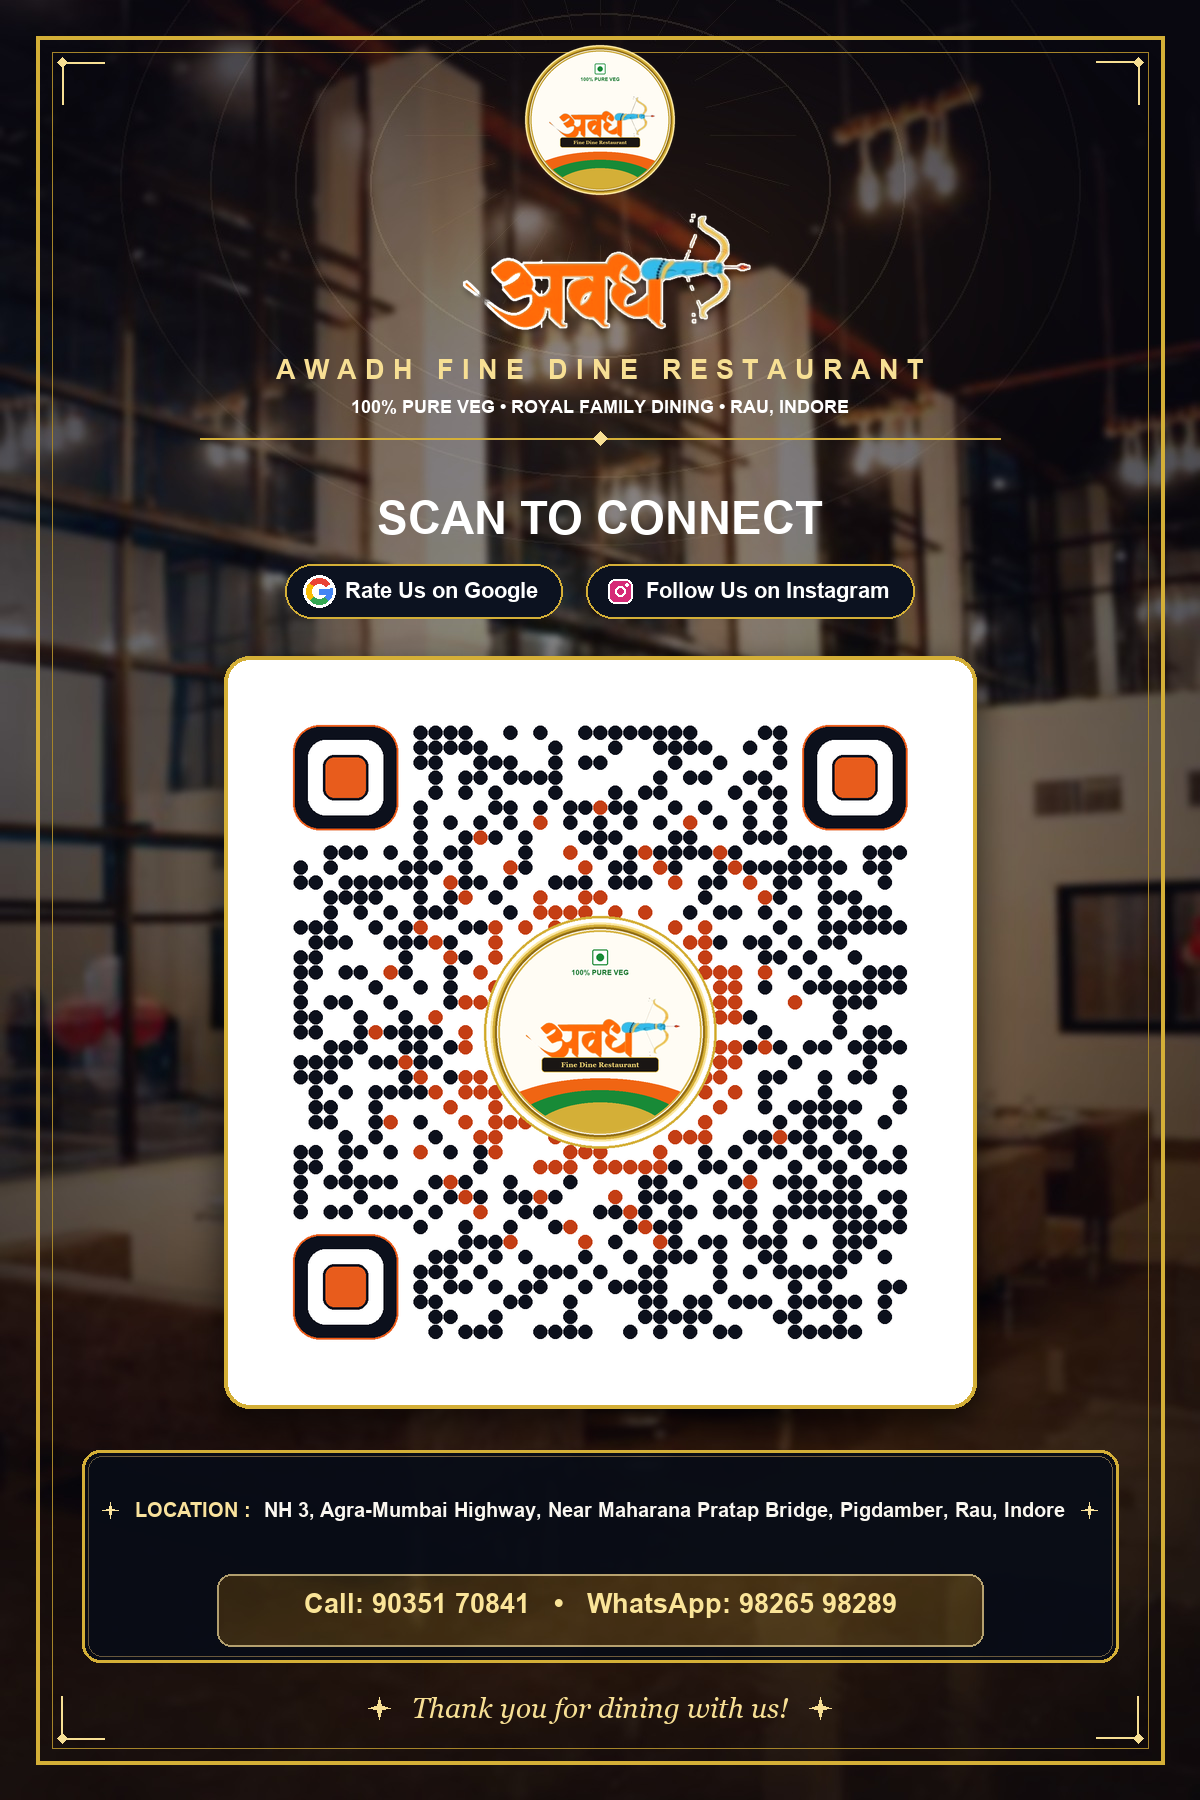
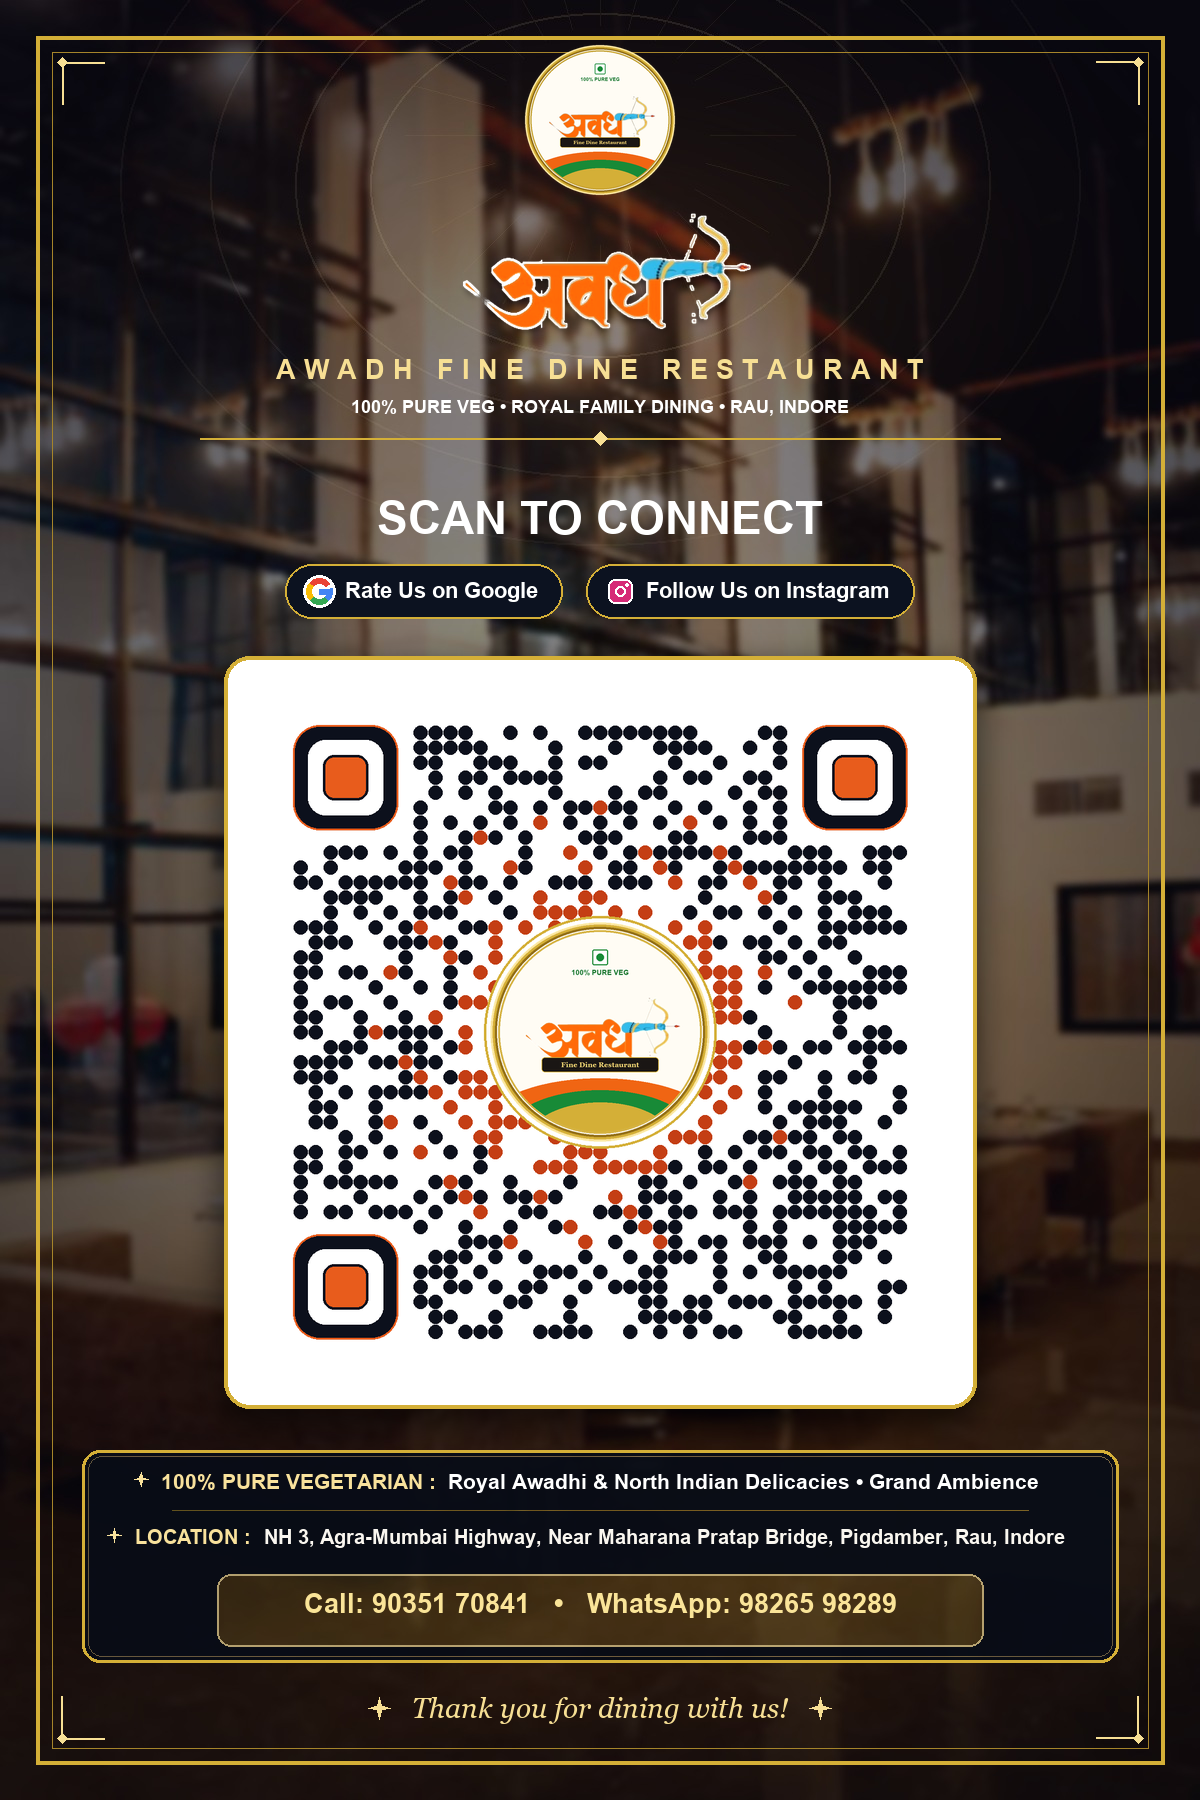
Keep single 100% Pure Vegetarian mention in footer

Changed region(s): [[0.1233, 0.8089, 0.8942, 0.8711]]

diff --git a/standee.html b/standee.html
@@ -456,6 +456,8 @@
         <!-- Footer -->
         <div class="standee-footer">
             <div class="standee-info-box">
+                <div class="standee-addr"><strong>✦ 100% PURE VEG:</strong> <span id="stHighlight">Royal Awadhi & North Indian Delicacies • Grand Ambience</span></div>
+                <div class="standee-addr-divider"></div>
                 <div class="standee-addr"><strong>✦ LOCATION:</strong> <span id="stAddress">NH 3, Agra-Mumbai Highway, Near Maharana Pratap Bridge, Pigdamber, Rau, Indore</span></div>
                 <div class="standee-phone" id="stPhone">Call: 90351 70841 &nbsp;•&nbsp; WhatsApp: 98265 98289</div>
             </div>
@@ -473,7 +475,10 @@
             if (!cfg) return;
             if (cfg.subname) document.getElementById('stSubname').textContent = cfg.subname;
             if (cfg.tagline) document.getElementById('stTagline').textContent = cfg.tagline;
-            if (cfg.highlight) document.getElementById('stHighlight').textContent = cfg.highlight;
+            if (cfg.highlight) {
+                const cleanHl = cfg.highlight.replace(/^\s*100%\s*pure\s*veg(etarian)?\s*[\:\•\-\–\—\.]*\s*/i, '');
+                document.getElementById('stHighlight').textContent = cleanHl;
+            }
             if (cfg.addressPrimary) document.getElementById('stAddress').textContent = cfg.addressPrimary;
             if (cfg.phone || cfg.whatsapp) {
                 const phoneStr = cfg.phoneDisplay || cfg.phone || "90351 70841";

diff --git a/index.html b/index.html
@@ -808,7 +808,11 @@
         <div class="info-box">
             <div class="outlets-list">
                 <div class="outlet-item">
-                    <span class="outlet-badge">✦ LOCATION • RAU, AB ROAD, INDORE ✦</span>
+                    <span class="outlet-badge">✦ 100% PURE VEG • FINE DINE RESTAURANT ✦</span>
+                    <div class="address-line" id="uiHighlight">Royal Awadhi & North Indian Delicacies • Grand Ambience</div>
+                </div>
+                <div class="outlet-item">
+                    <span class="outlet-badge">✦ RAU, AB ROAD • INDORE ✦</span>
                     <div class="address-line" id="uiAddressPrimary">NH 3, Agra-Mumbai Highway, Near Maharana Pratap Bridge, Pigdamber, Rau, Indore</div>
                 </div>
             </div>
@@ -873,7 +877,8 @@
             }
             if (cfg.highlight) {
                 const hlEl = document.getElementById('uiHighlight');
-                if (hlEl) hlEl.textContent = cfg.highlight;
+                const cleanHl = cfg.highlight.replace(/^\s*100%\s*pure\s*veg(etarian)?\s*[\:\•\-\–\—\.]*\s*/i, '');
+                if (hlEl) hlEl.textContent = cleanHl;
             }
             if (cfg.addressPrimary) {
                 const addr1 = document.getElementById('uiAddressPrimary');

diff --git a/generate_qr.py b/generate_qr.py
@@ -724,6 +724,9 @@ def draw_footer(canvas, draw, config, w=1200):
         outline=(247, 223, 148, 90),
         width=1
     )
+    div_y = info_y1 + 60
+    gdraw.line([info_x1 + 90, div_y, info_x2 - 90, div_y], fill=(212, 175, 55, 115), width=1)
+
     gdraw.rounded_rectangle(
         [info_x1 + 135, info_y1 + 124, info_x2 - 135, info_y2 - 16],
         radius=14,
@@ -735,9 +738,32 @@ def draw_footer(canvas, draw, config, w=1200):
     canvas_rgba = Image.alpha_composite(canvas_rgba, glass)
     canvas.paste(canvas_rgba.convert("RGB"))
 
+    lbl1 = "100% PURE VEGETARIAN :  "
+    txt1 = config.get("highlight", "Royal Awadhi & North Indian Delicacies • Grand Ambience")
+    txt1 = re.sub(r"^\s*100%\s*pure\s*veg(etarian)?\s*[\:\•\-\–\—\.]*\s*", "", txt1, flags=re.IGNORECASE)
+    f_size1 = 21
+    font_label1 = get_font(f_size1, bold=True)
+    font_addr1 = get_font(f_size1, bold=True)
+    b_lbl1 = draw.textbbox((0, 0), lbl1, font=font_label1)
+    b_txt1 = draw.textbbox((0, 0), txt1, font=font_addr1)
+    while ((b_lbl1[2] - b_lbl1[0]) + (b_txt1[2] - b_txt1[0])) > (w - 230) and f_size1 > 14:
+        f_size1 -= 1
+        font_label1 = get_font(f_size1, bold=True)
+        font_addr1 = get_font(f_size1, bold=True)
+        b_lbl1 = draw.textbbox((0, 0), lbl1, font=font_label1)
+        b_txt1 = draw.textbbox((0, 0), txt1, font=font_addr1)
+    w1_lbl = b_lbl1[2] - b_lbl1[0]
+    w1_txt = b_txt1[2] - b_txt1[0]
+    total_w1 = w1_lbl + w1_txt
+    x1_start = (w - total_w1) / 2
+    y1_row = info_y1 + 19 + (21 - f_size1) // 2
+    draw_sparkle(draw, x1_start - 20, y1_row + 10, radius=7, color=(249, 226, 156))
+    draw.text((x1_start, y1_row), lbl1, fill=(249, 226, 156), font=font_label1)
+    draw.text((x1_start + w1_lbl, y1_row), txt1, fill=(255, 255, 255), font=font_addr1)
+
     lbl2 = f"{config.get('addressPrimaryLabel', 'LOCATION')} :  "
     txt2 = config.get("addressPrimary", "NH 3, Near Maharana Pratap Bridge, Pigdamber, Rau, Indore")
-    f_size2 = 23
+    f_size2 = 21
     font_label2 = get_font(f_size2, bold=True)
     font_addr2 = get_font(f_size2, bold=True)
     b_lbl2 = draw.textbbox((0, 0), lbl2, font=font_label2)
@@ -752,11 +778,10 @@ def draw_footer(canvas, draw, config, w=1200):
     w2_txt = b_txt2[2] - b_txt2[0]
     total_w2 = w2_lbl + w2_txt
     x2_start = (w - total_w2) / 2
-    y2_row = info_y1 + 48
-    draw_sparkle(draw, x2_start - 24, y2_row + 12, radius=8, color=(249, 226, 156))
+    y2_row = info_y1 + 75 + (21 - f_size2) // 2
+    draw_sparkle(draw, x2_start - 20, y2_row + 10, radius=7, color=(249, 226, 156))
     draw.text((x2_start, y2_row), lbl2, fill=(249, 226, 156), font=font_label2)
     draw.text((x2_start + w2_lbl, y2_row), txt2, fill=(250, 247, 240), font=font_addr2)
-    draw_sparkle(draw, x2_start + total_w2 + 24, y2_row + 12, radius=8, color=(249, 226, 156))
 
     phone_disp = config.get("phoneDisplay") or config.get("phone", "90351 70841")
     wa_disp = config.get("whatsappDisplay") or config.get("whatsapp", "98265 98289")
@@ -1125,7 +1150,8 @@ def sync_html_files(config, config_path="config.js"):
     name = config.get("name", "Awadh Fine Dine Restaurant")
     subname = config.get("subname", "AWADH FINE DINE RESTAURANT")
     tagline = config.get("tagline", "100% PURE VEG • ROYAL FAMILY DINING • RAU, INDORE")
-    highlight = config.get("highlight", "Royal Awadhi, North Indian & Global Family Dining")
+    highlight = config.get("highlight", "Royal Awadhi & North Indian Delicacies • Grand Ambience")
+    clean_highlight = re.sub(r"^\s*100%\s*pure\s*veg(etarian)?\s*[\:\•\-\–\—\.]*\s*", "", highlight, flags=re.IGNORECASE)
     addr = config.get("addressPrimary", "NH 3, Agra-Mumbai Highway, Near Maharana Pratap Bridge, Pigdamber, Rau, Indore")
     phone = config.get("phone", "9035170841")
     clean_phone = re.sub(r"\s+", "", phone)
@@ -1146,6 +1172,7 @@ def sync_html_files(config, config_path="config.js"):
         html = re.sub(r'(<title id="pageTitle">).*?(</title>)', lambda m: f"{m.group(1)}{name} | Rate Us on Google & Follow Us on Instagram{m.group(2)}", html)
         html = re.sub(r'(<div class="brand-subname" id="uiSubname">).*?(</div>)', lambda m: f"{m.group(1)}{subname}{m.group(2)}", html)
         html = re.sub(r'(<span id="uiTagline">).*?(</span>)', lambda m: f"{m.group(1)}{tagline}{m.group(2)}", html)
+        html = re.sub(r'(<div class="address-line" id="uiHighlight">).*?(</div>)', lambda m: f"{m.group(1)}{clean_highlight}{m.group(2)}", html)
         html = re.sub(r'(<div class="address-line" id="uiAddressPrimary">).*?(</div>)', lambda m: f"{m.group(1)}{addr}{m.group(2)}", html)
         html = re.sub(r'(<a href="tel:)[^"]*(" class="contact-btn call-btn" id="uiPhoneLink">)', lambda m: f"{m.group(1)}{clean_phone}{m.group(2)}", html)
         html = re.sub(r'(<span id="uiPhoneText">).*?(</span>)', lambda m: f"{m.group(1)}Call: {phone_disp}{m.group(2)}", html)
@@ -1169,6 +1196,7 @@ def sync_html_files(config, config_path="config.js"):
             shtml = f.read()
         shtml = re.sub(r'(<div class="standee-subname" id="stSubname">).*?(</div>)', lambda m: f"{m.group(1)}{subname}{m.group(2)}", shtml)
         shtml = re.sub(r'(<div class="standee-location" id="stTagline">).*?(</div>)', lambda m: f"{m.group(1)}{tagline}{m.group(2)}", shtml)
+        shtml = re.sub(r'(<span id="stHighlight">).*?(</span>)', lambda m: f"{m.group(1)}{clean_highlight}{m.group(2)}", shtml)
         shtml = re.sub(r'(<span id="stAddress">).*?(</span>)', lambda m: f"{m.group(1)}{addr}{m.group(2)}", shtml)
         shtml = re.sub(r'(<div class="standee-phone" id="stPhone">).*?(</div>)', lambda m: f"{m.group(1)}Call: {phone_disp} &nbsp;•&nbsp; WhatsApp: {wa_short}{m.group(2)}", shtml)
         shtml = re.sub(r'(<div class="dual-qr-foot" id="stInstaFoot">).*?(</div>)', lambda m: f"{m.group(1)}{i_handle.upper()}{m.group(2)}", shtml)
